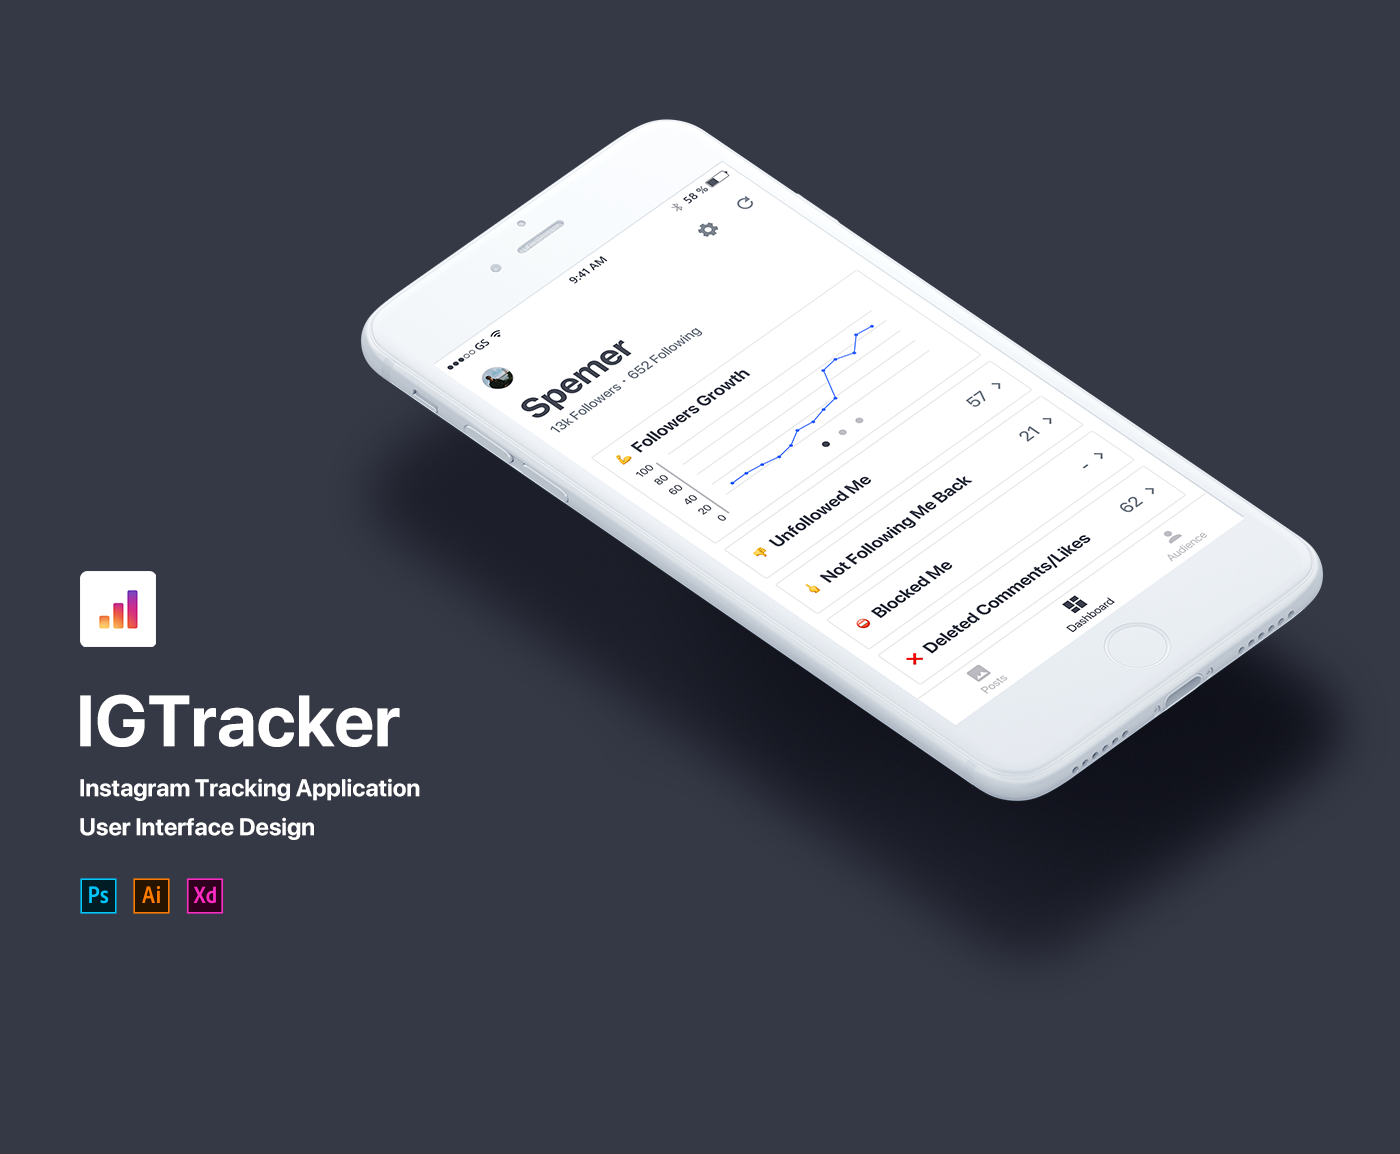
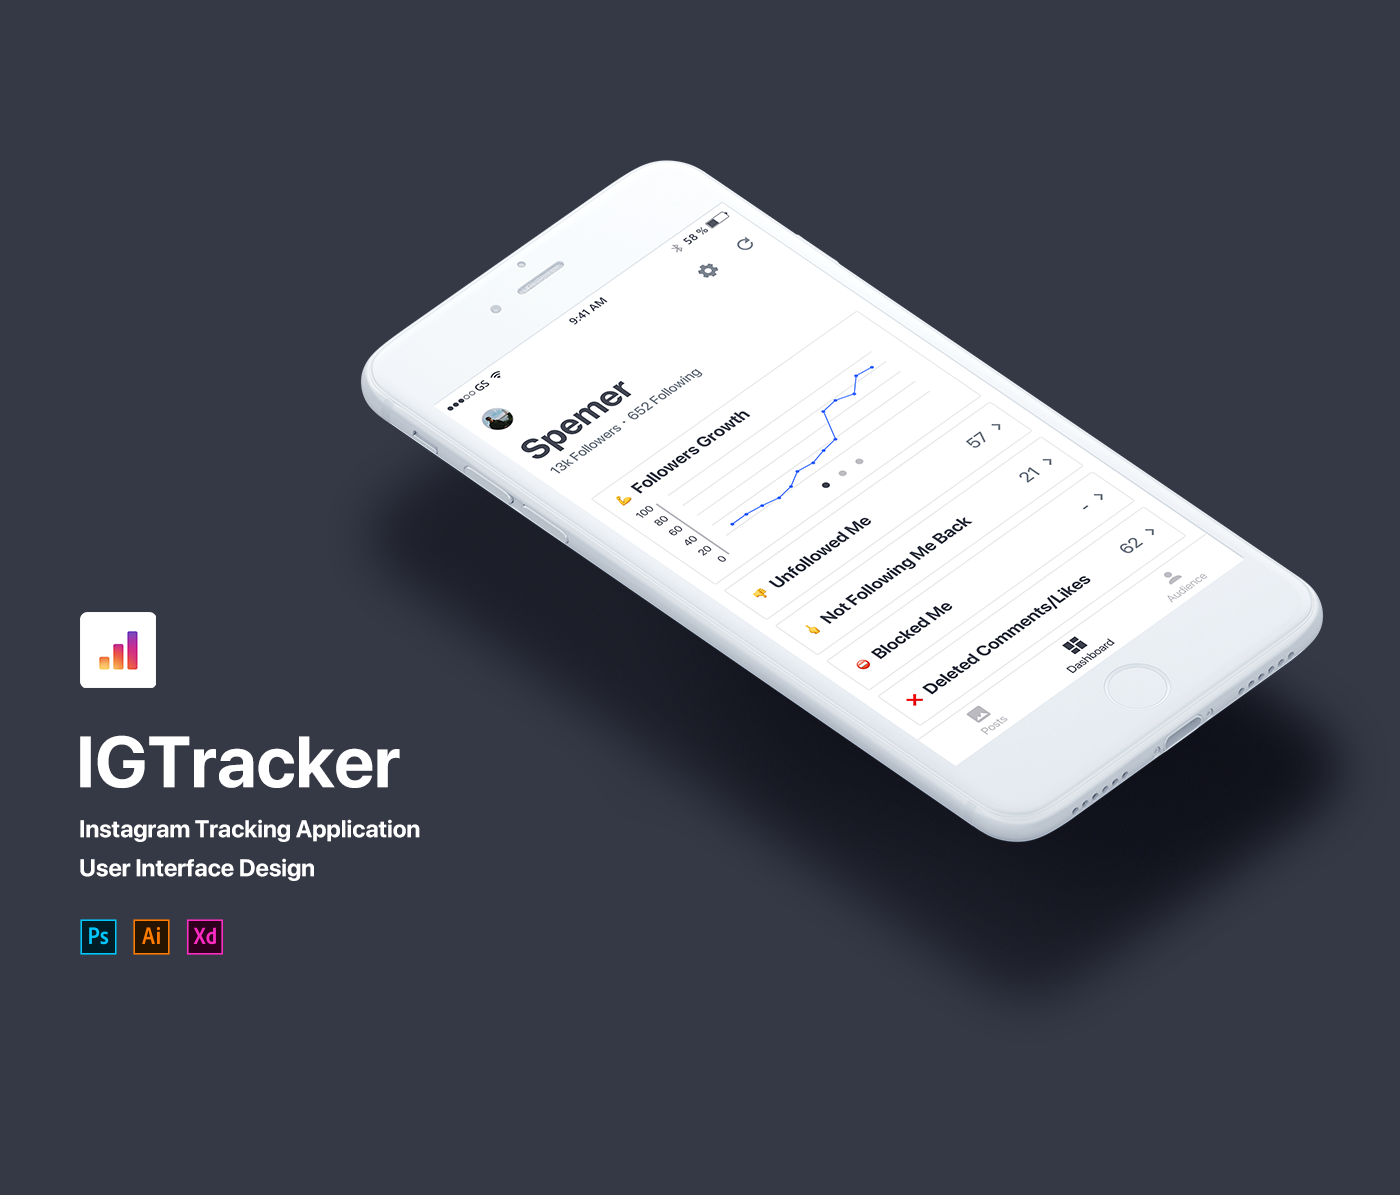
Fix gif image

diff --git a/public/portfolio/instagram-tracker-application-igtracker-design.html b/public/portfolio/instagram-tracker-application-igtracker-design.html
@@ -78,26 +78,14 @@
 
 					<br />
 
-					<p style="background-color: #353946;">
-						<br /><br /><br />
-					</p>
-
 					<img src="../img/works/igtrackerui/1.png" alt="Intro" title="Intro" class="atechImg" />
 					
 					<img src="../img/works/igtrackerui/2.png" alt="Design Guidelines" title="Design Guidelines" class="atechImg" />
 					
 					<img src="../img/works/igtrackerui/3.png" alt="Main - Dashboard" title="Main - Dashboard" class="atechImg" />
-
-					<p style="background-color: #353946;">
-						<br /><br /><br /><br /><br />
-					</p>
 					
 					<img src="../img/works/igtrackerui/3-1.gif" alt="Main - Dashboard Animation" title="Main - Dashboard Animation" class="atechImg" />
 
-					<p style="background-color: #353946;">
-						<br /><br /><br />
-					</p>
-					
 					<img src="../img/works/igtrackerui/4.png" alt="Audience" title="Audience" class="atechImg" />
 					
 					<img src="../img/works/igtrackerui/5.png" alt="Inner Analytics Screen" title="Inner Analytics Screen" class="atechImg" />
@@ -106,9 +94,9 @@
 
 					<div style="background-color: #353946;">
 					<center>
-					<br /><br /><br /><br /><br />
+					<br /><br /><br />
 						<iframe src="https://marvelapp.com/2865gi7?emb=1" width="400" height="797" allowTransparency="true" frameborder="0" title="IGTracker Prototype on Marvel"></iframe>
-					<br /><br /><br /><br /><br />
+					<br /><br /><br />
 					</center>
 					</div>
 					
